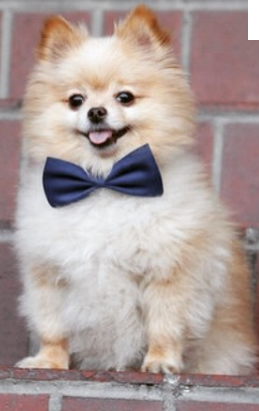
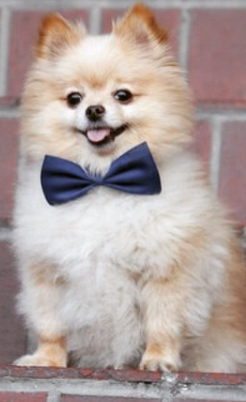
made styling changes as per client

diff --git a/public/stylesheets/about.min.css b/public/stylesheets/about.min.css
@@ -1,1 +1,1 @@
-#about-section h1{font-family:'Fontdiner Swanky', cursive}#about-section img{border:2px #555 solid;border-radius:10px 10px 10px 10px}#about-section a{text-decoration:underline;color:#555;text-transform:capitalize}#about-section p{font-family:'Oswald', sans-serif}#about-section .collapsible-header,#about-section .collapsible-body{font-family:"Oswald", sans-serif}#about-section .collapsible-body{font-size:140%;color:#555;font-weight:bold}#about-section .faq{margin-top:25px}#about-section #brutus-bowtie{position:relative;height:auto;width:67%}
+#about-section h1{font-family:'Fontdiner Swanky', cursive}#about-section img{border:2px #555 solid;border-radius:10px 10px 10px 10px}#about-section a{text-decoration:underline;color:#555;text-transform:capitalize}#about-section p{font-family:'Oswald', sans-serif}#about-section .collapsible-header,#about-section .collapsible-body{font-family:"Oswald", sans-serif}#about-section .collapsible-body{font-size:140%;color:#555;font-weight:bold}#about-section .faq{margin-top:25px}#about-section #brutus-bowtie{position:relative;height:auto;width:65%}

diff --git a/public/stylesheets/about.scss b/public/stylesheets/about.scss
@@ -34,8 +34,7 @@
   #brutus-bowtie {
     position: relative;
     height: auto;
-    width: 67%;
-    // top: 25px;
+    width: 65%;
   }
 
 }
